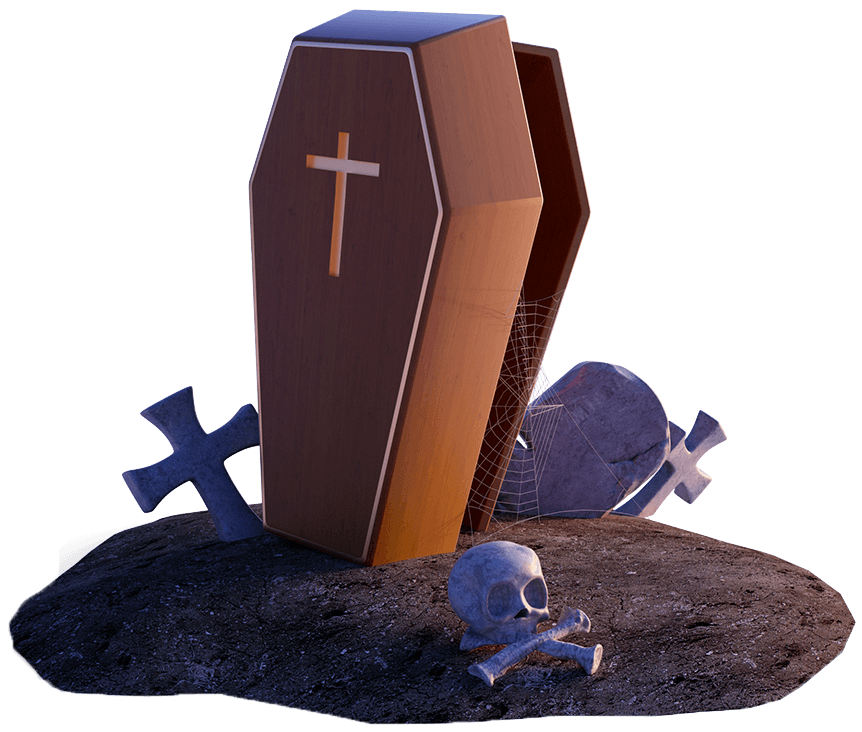
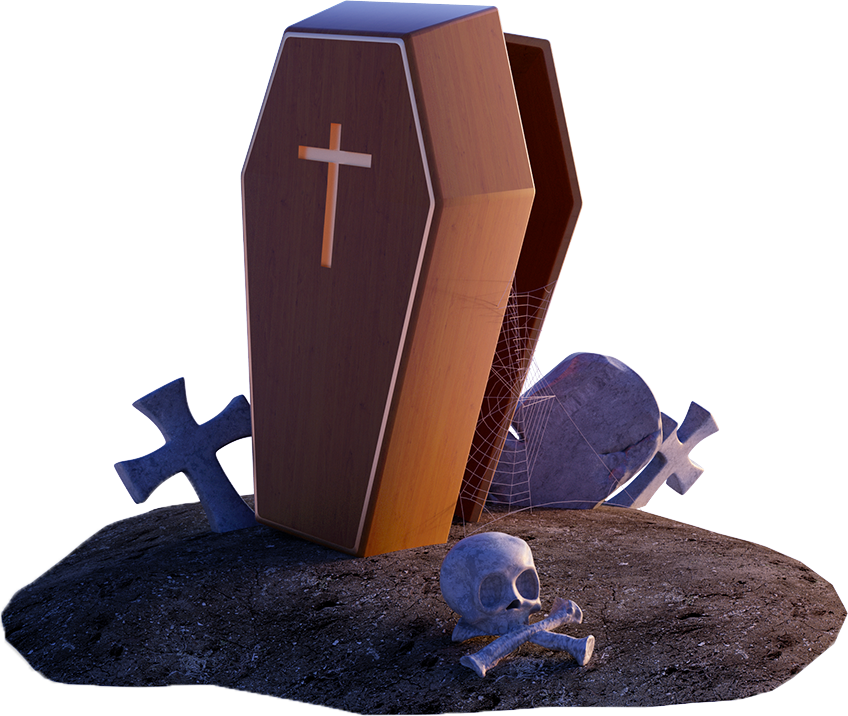
upds

diff --git a/style.css b/style.css
@@ -23,7 +23,9 @@ html {
   opacity: 0.3;
   z-index: -10000000000;
 }
-
+.tomb {
+  height: 24rem !important;
+}
 .shape__small,
 .shape__big {
   position: absolute;
@@ -325,11 +327,11 @@ a {
 
 @keyframes floatNew {
   from {
-    transform: translateY(-3.5rem);
+    transform: translateY(-2rem);
   }
 
   to {
-    transform: translateY(-1.5rem);
+    transform: translateY(1rem);
   }
 }
 
@@ -950,6 +952,15 @@ button:hover {
 }
 
 @media (orientation: portrait) {
+  @keyframes floatNew {
+    from {
+      transform: translateY(-3.5rem);
+    }
+
+    to {
+      transform: translateY(-1.5rem);
+    }
+  }
   .knife {
     height: 15rem !important;
   }

diff --git a/index.html b/index.html
@@ -168,7 +168,7 @@
             data-aos="zoom-out"
             data-aos-duration="700"
           >
-            <img src="images/tomb3.png" alt="" />
+            <img class="tomb" src="images/tomb3.png" alt="" />
             <p>“You Have Died”</p>
             <h3 class="game-name4 game-name">– Dark Souls</h3>
           </div>
